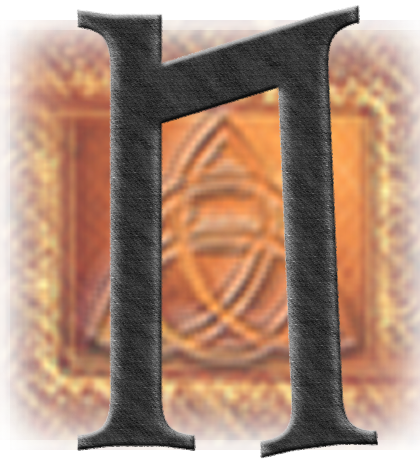
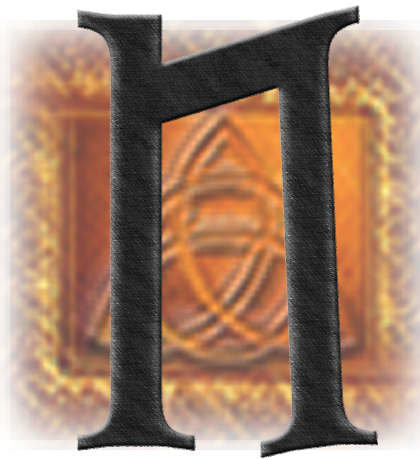
Small changes - adjusted drop cap image and changed includes in top tex

diff --git a/programming-arcana.tex b/programming-arcana.tex
@@ -7,7 +7,7 @@
 % \includeonly{topics/programs-and-compilers/compilers}
 % \includeonly{topics/program-creation/program-creation}
 % \includeonly{topics/procedure-decl/procedure-decl}
-\includeonly{topics/storing-using-data/storing-using-data}
+% \includeonly{topics/storing-using-data/storing-using-data}
 % \includeonly{topics/control-flow/control-flow}
 % \includeonly{topics/arrays/arrays}
 % \includeonly{topics/type-decl/type-decl}
